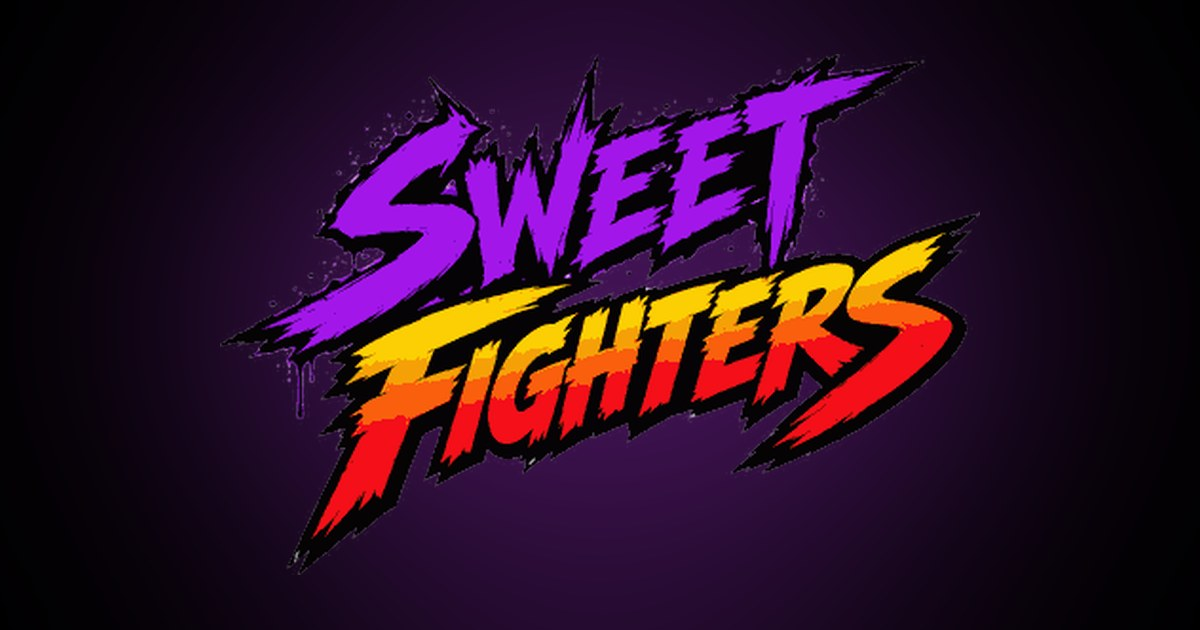
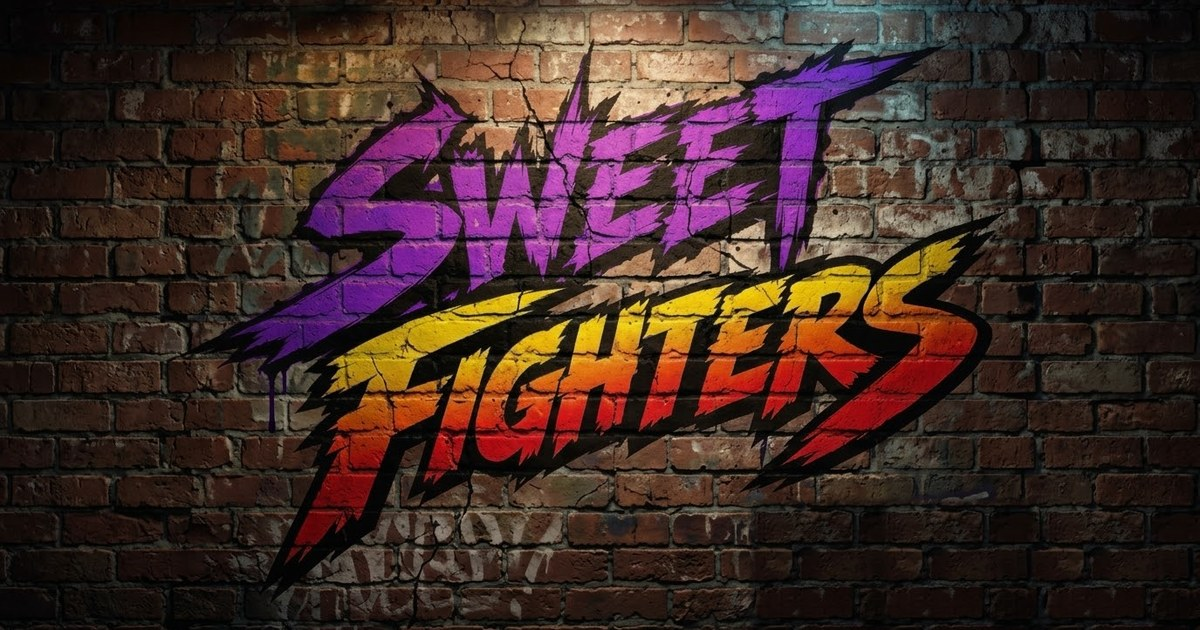
v53: detailed shaded props, bigger city props, alt colors tweak, title share image

diff --git a/game.js b/game.js
@@ -4,7 +4,7 @@
    ========================================================= */
 'use strict';
 (() => {
-const VERSION = 'v52';
+const VERSION = 'v53';
 
 let W = 384; const H = 216, GROUND = 190, GRAV = 0.34;
 let CX = 192; // centre horizontal
@@ -1363,7 +1363,7 @@ function updThrow(f) {
 }
 /* ---------- Objets du décor : chaise et vases (cassables, lançables avec X) ---------- */
 const PROP_HIT = { dmg: 9, knock: true, stun: 22, bstun: 16, push: 3.6, chip: 0, sfx: 'heavy', unblock: true };
-const PROP_DIM = { chair: [30, 46], vase: [12, 22], tallvase: [14, 30], crate: [22, 20], pot: [18, 30], bottle: [6, 17], cone: [16, 22], trash: [20, 28] };
+const PROP_DIM = { chair: [30, 46], vase: [12, 22], tallvase: [14, 30], crate: [22, 20], pot: [18, 30], bottle: [9, 24], cone: [22, 31], trash: [27, 38] };
 function makeProps() {
   const X = f => Math.round(SW * f);
   const list = G.stage === 'city'
@@ -1449,51 +1449,107 @@ function updProps() {
   if (G.shards) G.shards = G.shards.filter(s => s.t < 55);
 }
 const VASE_COLS = [['#2e5a9a', '#e8eef6', '#1e3a6a'], ['#b8261c', '#e8c070', '#7a140e'], ['#2a7a5a', '#d8e8d0', '#1a4a36']];
+// Palettes 5 tons : [contour, ombre, moyen, clair, reflet]
+const PP = {
+  wood:  ['#2a1608', '#5a3418', '#8a5a30', '#b07a44', '#d8a468'],
+  woodL: ['#3a2010', '#6a4220', '#9a6a38', '#c08a50', '#e6b47a'],
+  blue:  ['#0c1630', '#1e3a6a', '#2e5a9a', '#5a8ad0', '#c8dcf4'],
+  red:   ['#3a0806', '#7a140e', '#b8261c', '#e0503a', '#ffb090'],
+  green: ['#0a2a1c', '#1a4a36', '#2a7a5a', '#4aa880', '#c0ecd4'],
+  white: ['#5a6070', '#a0a8b8', '#d8dee8', '#f4f6fa', '#ffffff'],
+  gold:  ['#4a3006', '#8a6014', '#c8a030', '#e8c860', '#fff0b0'],
+  terra: ['#3a1406', '#7a3a18', '#b8642e', '#d88a4a', '#f4b880'],
+  leaf:  ['#0e2a0e', '#1e4a1a', '#3e7a2a', '#5c9a3a', '#9ad06a'],
+  glass: ['#062a0a', '#0e4a16', '#1e7a28', '#3aa848', '#c8f4c8'],
+  cone:  ['#5a1a04', '#a8380a', '#e85a14', '#ff8a3a', '#ffd0a0'],
+  metal: ['#24242c', '#4a4a56', '#7a7a88', '#a8a8b8', '#e0e0ec'],
+};
 function drawProp(p, x, y) {
   const F = (px, py, w, h, c) => R(x + px, y + py, w, h, c);
-  if (p.type === 'chair') {
-    const w = '#8a5a30', d = '#5a3418', l = '#b07a44';
-    F(-13, -46, 3, 46, d); F(10, -46, 3, 46, d);          // montants du dossier
-    F(-13, -46, 26, 4, w); F(-13, -46, 26, 1, l); F(-13, -43, 26, 1, d);   // haut du dossier
-    F(-10, -38, 20, 2, w); F(-10, -32, 20, 2, w); F(-10, -26, 20, 2, w);   // barreaux
-    F(-16, -22, 32, 5, w); F(-16, -22, 32, 1, l); F(-16, -18, 32, 1, d);   // assise
-    F(-15, -17, 3, 17, d); F(12, -17, 3, 17, d);          // pieds avant
-    F(-12, -8, 24, 1, d);
-  } else if (p.type === 'bottle') {
-    const g1 = '#1e6a24', g2 = '#3aa040', g3 = '#9ae0a0';
-    F(-1, -17, 2, 2, '#c8a030'); F(-1, -15, 2, 4, g1); F(-2, -11, 4, 2, g1);   // capsule + goulot
-    F(-3, -9, 6, 9, g1); F(-2, -9, 2, 9, g2); F(-1, -8, 1, 6, g3);
-    F(-3, -6, 6, 3, '#e8d8a0'); F(-2, -5, 3, 1, '#b8261c');                     // étiquette
-  } else if (p.type === 'cone') {
-    const o = '#ff6a1a', od = '#c84a0a';
-    for (let r = 0; r < 19; r++) { const w = 1 + Math.round(r * 5.5 / 19); F(-w, -21 + r, w * 2 + 1, 1, (r > 6 && r < 10) || (r > 13 && r < 16) ? '#f0f0f0' : o); F(w, -21 + r, 1, 1, od); }
-    F(-8, -3, 17, 3, '#2a2a30'); F(-8, -3, 17, 1, '#4a4a54');
-  } else if (p.type === 'trash') {
-    const m = '#8a8a98', md = '#4a4a56', ml = '#c0c0cc';
-    F(-9, -24, 18, 24, m); F(-9, -24, 2, 24, md); F(7, -24, 2, 24, md);
-    for (let x = -5; x <= 5; x += 4) F(x, -22, 1, 20, md);
-    F(-10, -28, 20, 4, md); F(-10, -28, 20, 1, ml); F(-3, -30, 6, 2, md);   // couvercle
-    F(-6, -32, 3, 4, '#3a7a2a');                                               // sac qui dépasse
-  } else if (p.type === 'crate') {
-    const w = '#9a6a38', d = '#5a3418', l = '#c08a50';
-    F(-11, -20, 22, 20, w); F(-11, -20, 22, 1, l);
-    F(-11, -20, 2, 20, d); F(9, -20, 2, 20, d); F(-11, -1, 22, 1, d); F(-11, -11, 22, 1, d);
-    for (let i = 0; i < 16; i++) F(-8 + i, -18 + Math.round(i * 16 / 16), 2, 1, d);   // planche en diagonale
-  } else if (p.type === 'pot') {
-    const t = '#b8642e', td = '#7a3a18', g1 = '#3e7a2a', g2 = '#5c9a3a';
-    F(-8, -13, 16, 2, td); F(-7, -11, 14, 11, t); F(-7, -11, 1, 11, td); F(5, -11, 2, 11, '#d07a40'); F(-6, -1, 12, 1, td);
-    const leaf = (x0, y0, dx, n, c) => { for (let i = 0; i < n; i++) F(x0 + Math.round(dx * i), y0 - i, 2, 1, c); };
-    leaf(-1, -14, -.7, 14, g1); leaf(0, -14, .6, 16, g2); leaf(-2, -14, -1.3, 9, g2); leaf(1, -14, 1.2, 10, g1); leaf(0, -14, 0, 12, g1);
+  // ligne horizontale d'un volume cylindrique éclairé par la gauche
+  const cylRow = (py, w, pal) => {
+    for (let px = -w; px <= w; px++) {
+      const t = (px + w) / (2 * w || 1);
+      const c = Math.abs(px) === w ? pal[0] : t < .16 ? pal[2] : t < .34 ? pal[3] : t < .4 ? pal[4] : t < .62 ? pal[2] : t < .84 ? pal[1] : pal[0];
+      F(px, py, 1, 1, c);
+    }
+  };
+  const box = (x0, y0, w, h, pal) => {   // planche/pièce de bois avec relief
+    F(x0, y0, w, h, pal[2]); F(x0, y0, w, 1, pal[3]); F(x0, y0, 1, h, pal[3]);
+    F(x0, y0 + h - 1, w, 1, pal[1]); F(x0 + w - 1, y0, 1, h, pal[1]);
+  };
+  const T = p.type;
+  if (T === 'chair') {
+    const P = PP.wood, L = PP.woodL;
+    box(10, -46, 3, 46, P); F(10, -46, 3, 46, P[1]); F(11, -46, 1, 46, P[2]);          // montant arrière droit (dans l'ombre)
+    box(-13, -46, 3, 46, L);                                                             // montant arrière gauche
+    box(-13, -47, 26, 5, L); F(-12, -47, 24, 1, L[4]); F(-13, -43, 26, 1, P[0]);        // haut du dossier
+    for (const yy of [-38, -32, -26]) { box(-10, yy, 20, 2, L); F(-10, yy + 2, 20, 1, P[0]); }   // barreaux + ombre portée
+    F(-16, -22, 32, 3, L[3]); F(-16, -22, 32, 1, L[4]);                                  // dessus de l'assise
+    F(-16, -19, 32, 3, P[2]); F(-16, -17, 32, 1, P[1]); F(-16, -16, 32, 1, P[0]);        // tranche avant
+    F(-14, -15, 28, 2, 'rgba(0,0,0,.35)');                                               // ombre sous l'assise
+    box(-15, -16, 3, 16, L); box(12, -16, 3, 16, P); F(13, -16, 1, 16, P[1]);           // pieds avant
+    F(-12, -7, 24, 2, P[1]); F(-12, -7, 24, 1, P[2]);                                    // traverse
+  } else if (T === 'crate') {
+    const P = PP.woodL, D = PP.wood;
+    // dessus (vue légèrement plongeante) et côté droit dans l'ombre
+    F(-11, -24, 22, 4, P[3]); F(-9, -25, 22, 1, P[4]); F(-11, -24, 1, 4, P[2]);
+    for (let i = 0; i < 4; i++) F(11 + (i > 1 ? 1 : 0), -24 + i, 2, 24 - i, D[1]);
+    F(13, -22, 1, 22, D[0]);
+    F(-11, -20, 22, 20, P[2]);
+    for (const yy of [-20, -13, -6]) { F(-11, yy, 22, 1, P[3]); F(-11, yy + 6, 22, 1, D[1]); }   // 3 planches
+    F(-11, -20, 2, 20, D[2]); F(9, -20, 2, 20, D[1]); F(-11, -20, 1, 20, P[4]);
+    for (let i = 0; i < 16; i++) { F(-8 + i, -19 + i, 2, 1, D[1]); F(-8 + i, -18 + i, 2, 1, D[0]); }   // traverse diagonale
+    for (const [nx, ny] of [[-10, -19], [8, -19], [-10, -2], [8, -2]]) F(nx, ny, 1, 1, '#c8c8d0');      // clous
+    F(-11, -1, 24, 1, D[0]);
+  } else if (T === 'pot') {
+    const P = PP.terra, G2 = PP.leaf;
+    // feuillage en dégradé (arrière sombre, avant clair)
+    const leaf = (x0, y0, dx, n, pal) => { for (let i = 0; i < n; i++) { const xx = x0 + Math.round(dx * i); F(xx, y0 - i, 2, 1, i < n / 3 ? pal[1] : i < n * .75 ? pal[2] : pal[3]); F(xx + 1, y0 - i, 1, 1, pal[0]); } };
+    leaf(-1, -14, -.9, 15, G2); leaf(1, -14, .9, 16, G2); leaf(-2, -14, -1.6, 10, G2); leaf(2, -14, 1.5, 11, G2);
+    leaf(0, -14, -.3, 18, G2); leaf(0, -14, .35, 17, G2);
+    for (let i = 0; i < 5; i++) F(-3 + i, -16 - (i % 2) * 3, 1, 1, G2[4]);
+    F(-9, -15, 18, 3, P[3]); F(-9, -15, 18, 1, P[4]); F(-9, -13, 18, 1, P[1]); F(-9, -15, 1, 3, P[0]); F(8, -15, 1, 3, P[0]);   // rebord
+    F(-6, -14, 12, 1, '#2a1406');                                                         // terre
+    for (let r = 0; r < 12; r++) cylRow(-12 + r, 7 - Math.round(r / 6), P);
+    F(-5, -1, 10, 1, P[0]);
+  } else if (T === 'bottle') {
+    const P = PP.glass, h = 24;
+    F(-1, -24, 3, 2, '#e0c040'); F(-1, -24, 3, 1, '#fff0a0'); F(1, -23, 1, 1, '#8a6a10');   // capsule
+    for (let r = 0; r < 6; r++) cylRow(-22 + r, 1, P);                                    // goulot
+    for (let r = 0; r < 3; r++) cylRow(-16 + r, 2 + r, P);                                // épaule
+    for (let r = 0; r < 13; r++) cylRow(-13 + r, 4, P);                                   // corps
+    for (let r = 0; r < 5; r++) { const yy = -10 + r; for (let px = -4; px <= 4; px++) F(px, yy, 1, 1, Math.abs(px) === 4 ? '#6a5a30' : px < -1 ? '#fff4c8' : px < 2 ? '#e8d8a0' : '#b8a670'); }   // étiquette
+    F(-2, -9, 4, 2, '#b8261c'); F(-2, -9, 4, 1, '#e04a3a');
+    F(-3, -1, 7, 1, P[0]);
+  } else if (T === 'cone') {
+    const P = PP.cone, W5 = PP.white;
+    F(-11, -4, 22, 4, '#1a1a20'); F(-11, -4, 22, 1, '#4a4a56'); F(-11, -4, 1, 4, '#3a3a44'); F(10, -4, 1, 4, '#0a0a0e');   // socle
+    for (let r = 0; r < 26; r++) {
+      const w = 1 + Math.round(r * 7.5 / 26), stripe = (r > 8 && r < 13) || (r > 17 && r < 21);
+      cylRow(-30 + r, w, stripe ? W5 : P);
+    }
+    F(-1, -31, 3, 1, P[1]);
+  } else if (T === 'trash') {
+    const P = PP.metal;
+    for (let r = 0; r < 30; r++) cylRow(-30 + r, 12 - (r < 2 ? 0 : Math.round(r / 15)), P);
+    for (const xx of [-7, -2, 3, 8]) for (let r = 0; r < 26; r++) F(xx, -27 + r, 1, 1, P[1]);   // nervures
+    F(-12, -16, 25, 1, P[1]); F(-12, -15, 25, 1, P[4]);                                   // cerclage
+    F(-13, -34, 27, 4, P[3]); F(-13, -34, 27, 1, P[4]); F(-13, -31, 27, 1, P[0]); F(-13, -34, 1, 4, P[1]); F(13, -34, 1, 4, P[0]);   // couvercle
+    F(-4, -36, 9, 2, P[2]); F(-4, -36, 9, 1, P[4]); F(-4, -35, 1, 1, P[0]); F(4, -35, 1, 1, P[0]);   // poignée
+    F(-9, -38, 5, 5, '#2a5a1a'); F(-8, -38, 2, 2, '#4a8a2a'); F(-9, -34, 5, 1, '#123a0a');       // sac poubelle qui dépasse
+    F(-12, -1, 25, 1, P[0]);
   } else {
-    const [c, hi, dk] = VASE_COLS[p.v], tall = p.type === 'tallvase', h = tall ? 30 : 22;
+    const pal = [PP.blue, PP.red, PP.green][p.v] || PP.blue, tall = T === 'tallvase', h = tall ? 30 : 22;
     for (let r = 0; r < h; r++) {
       const t = r / h;
-      const wv = tall ? (t < .15 ? 3 : t < .25 ? 2 : Math.round(2 + Math.sin((t - .25) / .75 * Math.PI) * 5))
-                      : (t < .12 ? 3 : t < .22 ? 2 : Math.round(2 + Math.sin((t - .22) / .78 * Math.PI) * 4.5));
-      F(-wv, -h + r, wv * 2 + 1, 1, r % 9 === 4 ? hi : c);
-      F(-wv, -h + r, 1, 1, dk); F(wv - 1, -h + r, 1, 1, hi);
+      const wv = tall ? (t < .1 ? 3 : t < .22 ? 2 : Math.round(2 + Math.sin((t - .22) / .78 * Math.PI) * 5.5))
+                      : (t < .1 ? 3 : t < .2 ? 2 : Math.round(2 + Math.sin((t - .2) / .8 * Math.PI) * 4.8));
+      const band = (r % 10 === 5 || r % 10 === 6) && t > .25;
+      cylRow(-h + r, wv, band ? PP.gold : pal);
     }
-    F(-3, -h, 7, 1, dk);
+    F(-3, -h, 7, 1, pal[0]); F(-2, -h + 1, 5, 1, '#0a0a10');   // ouverture
+    F(-3, -1, 7, 1, pal[0]);
   }
 }
 function drawProps() {
@@ -1699,8 +1755,8 @@ function aiInput(f, o) {
 /* ---------------- Déroulé des rounds ---------------- */
 // 2e couleur quand le CPU prend le même personnage
 const ALT = [
-  { top: ['#08080c', '#18181e', '#2e2e3a', '#4c4c5c'] },                                                   // Kaito : t-shirt noir
-  { top: ['#0c1a4a', '#18348c', '#2a5ad0', '#6a9cff'], legs: ['#2e2e34', '#4e4e58', '#76767e', '#a6a6b0'] }, // John : t-shirt bleu, jean gris
+  { top: ['#08080c', '#18181e', '#2e2e3a', '#4c4c5c'], belt: ['#2a0404', '#4a0808', '#6e1010', '#962222'] },   // Kaito : t-shirt noir, ceinture rouge foncé
+  { top: ['#0c1a4a', '#18348c', '#2a5ad0', '#6a9cff'], legs: ['#06060a', '#14141c', '#26262e', '#8a8a9c'] }, // John : t-shirt bleu, pantalon presque noir brillant
 ];
 const fighterDef = (i, alt) => alt ? Object.assign({}, DEFS[i], ALT[i], { idx: i, alt: true }) : Object.assign(DEFS[i], { idx: i });
 function startMatch(p1, p2, stage) {

diff --git a/index.html b/index.html
@@ -17,19 +17,19 @@
 <meta property="og:title" content="Sweet Fighters 2">
 <meta property="og:description" content="Pixel-art fighting game in your browser. Play on mobile in landscape.">
 <meta property="og:url" content="https://cameleon-ds.github.io/sweet-fighters-2/">
-<meta property="og:image" content="https://cameleon-ds.github.io/sweet-fighters-2/og.jpg">
-<meta property="og:image:secure_url" content="https://cameleon-ds.github.io/sweet-fighters-2/og.jpg">
+<meta property="og:image" content="https://cameleon-ds.github.io/sweet-fighters-2/og.jpg?v=2">
+<meta property="og:image:secure_url" content="https://cameleon-ds.github.io/sweet-fighters-2/og.jpg?v=2">
 <meta property="og:image:type" content="image/jpeg">
 <meta property="og:image:width" content="1200">
 <meta property="og:image:height" content="630">
 <meta property="og:image:alt" content="Sweet Fighters logo">
 <meta name="twitter:card" content="summary_large_image">
-<meta name="twitter:image" content="https://cameleon-ds.github.io/sweet-fighters-2/og.jpg">
+<meta name="twitter:image" content="https://cameleon-ds.github.io/sweet-fighters-2/og.jpg?v=2">
 <link rel="manifest" href="manifest.json">
 <link rel="preconnect" href="https://fonts.googleapis.com">
 <link rel="preconnect" href="https://fonts.gstatic.com" crossorigin>
 <link href="https://fonts.googleapis.com/css2?family=Press+Start+2P&display=swap" rel="stylesheet">
-<link rel="stylesheet" href="style.css?v=52">
+<link rel="stylesheet" href="style.css?v=53">
 </head>
 <body>
 <div id="app">
@@ -62,6 +62,6 @@
   <button id="rotateOk" type="button">CONTINUE</button>
 </div>
 
-<script src="game.js?v=52"></script>
+<script src="game.js?v=53"></script>
 </body>
 </html>
